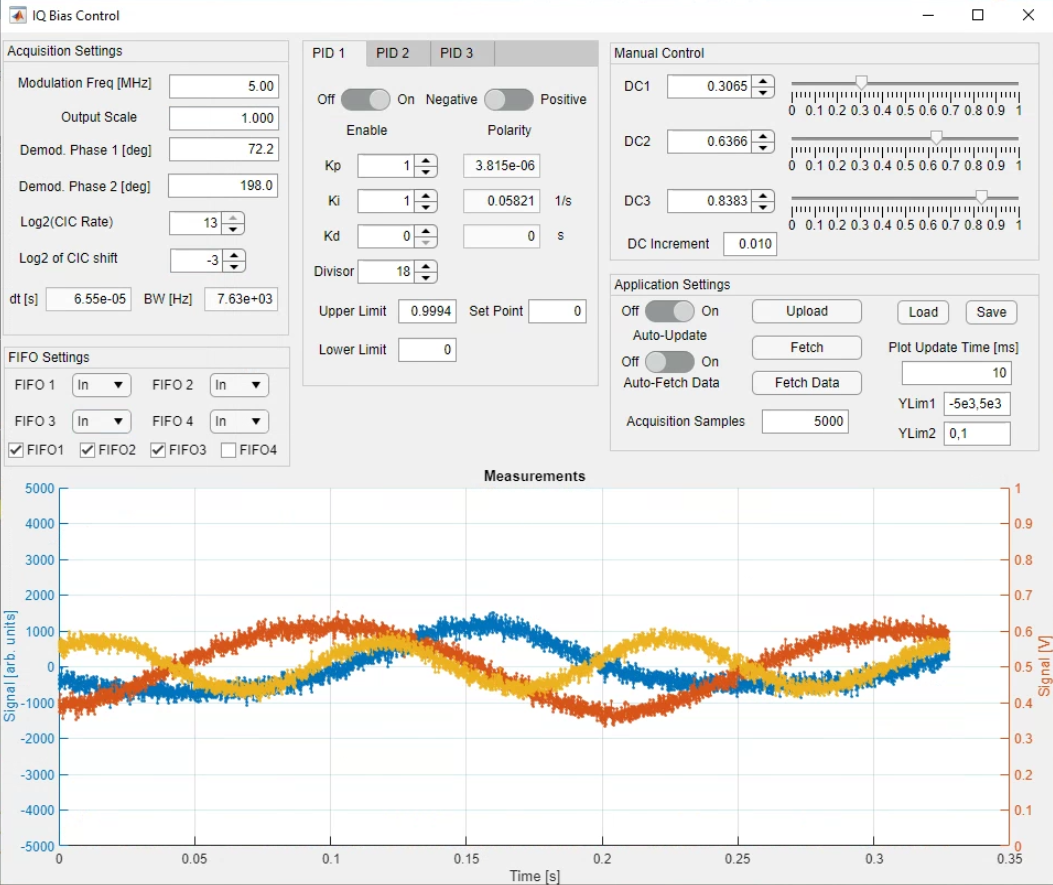
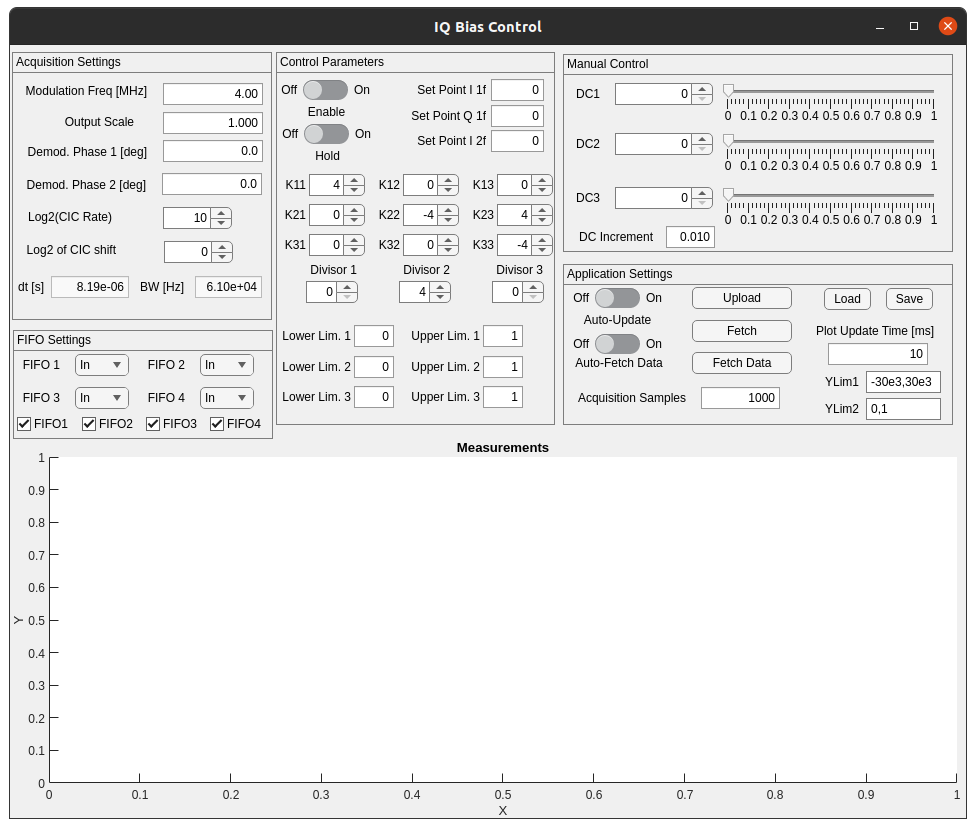
Updated README

Changed region(s): [[0.0, 0.0, 1.0, 1.0], [0.4611, 0.5133, 0.5533, 0.5435]]

diff --git a/README.md b/README.md
@@ -58,15 +58,15 @@ The GUI is best way to control the device.  There are four categories of device 
 
 The idea behind this technique is to generate a low-frequency modulation signal at a few MHz, inject it into the IQ modulator, measure the laser power using a photodetector, and then demodulate that signal at the modulation frequency in both quadratures (in-phase I and quadrature-phase Q), and also to demodulate at twice the modulation frequency (both I and Q are provided).  Demodulation is implemented digitally by multiplying the input signal with a sinusoidally varying signal at the correct frequency but with a demodulation phase (1 and 2), and the result is then filtered using a CIC filter with a rate of $2^N$.  So under acquisition settings, the "Modulation Freq" is the modulation frequency output from the RP, "Demod Phase 1" and "Demod Phase 2" are the demodulation phases at the modulation frequency and its second harmonic, "Log2(CIC Rate)" is $N$, and "Log2 of CIC shift" is an additional digital scaling factor that reduces the output signals by $2^M$ where $M$ is the setting that is given.  The time step between filtered samples, and the equivalent bandwidth, is given at the bottom of the panel.
 
-## PID 1-3
+## Control
 
-These control the three independent PID modules of the design.  The PID modules generate an actuator value that is summed with the manual control values (see next section) before having upper and lower limits applied.  PID 1 uses the I component of the 1f signal, PID 2 uses the Q component of the 1f signal, and PID 3 uses the I component of the 2f signal.  The `Enable` switch turns the controllers on, and the `Polarity` switch changes the polarity: note that the demodulation phase can affect what polarity is needed.  `Kp`, `Ki`, and `Kd` are the digital values used for the proportional, integral, and derivative gains.  After the error signals are multiplied by these gain values and then summed together, the result is divided by $2^N$ with $N$ being given by the value of `Divisor`.  This implements a simple fixed-point arithmetic.  The continuous gain equivalents are given in the right-hand column.
+Assuming that the demodulation phases are properly set, the bias voltages on the IQ modulator should independently control each demodulated signal with very limited cross-coupling.  In reality, there can be significant cross-coupling.  To account for cross-coupling, we use a multi-dimensional integral control scheme.  For a vector of voltages $\mathbf{V}$ and a vector of signals $\mathbf{S}$, we implement a control law as a 3x3 matrix $K$ such that $\mathbf{V} = -K\mathbf{S}$.  The integer values for the control matrix $K$ are given as K11, K12, etc, and these can be negative to allow for opposite polarity responses.  Additionally, to account for possibly different orders of magnitude of gain reponse, each output voltage has its own "divisor" to allow for fixed-point arithmetic.  Therefore, the output voltage $V_1$ is $V_1 = 2^{-N_1}(K_{11}S_1 + K_{12}S_2 + K_{13}S_3)$ and similarly for the other rows 2 and 3.  
 
-Upper and lower limits are specified in volts for the output of the PWM (before any amplifiers you may add), and the set point is given in the arbitrary units that the measured signals are reported in.
+Other controls are reasonably straightforward.  The `Enable` switch turns the controller on, and the `Hold` switch holds the outputs at the current values.  The different set points allow for stabilising the signals about a non-zero value, and the upper and lower limits at the bottom limit the PMW output voltages (values are prior to any amplifiers you may add).
 
 ## Manual Control
 
-The voltage biases DC1, DC2, and DC3 adjust the phases of the three MZIs in the IQ modulator and thus allow for CS-SSB as well as all sorts of other, undesired output modes.  Unfortunately, simply by measuring the optical power it is fundamentally impossible to determine what frequency is on the output of the IQ modulator, as all single-frequency operation generates a steady DC value on the photodiode.  The manual control allows the user to get close to CS-SSB operation, and then the PID controllers will ideally keep it in that mode.
+The voltage biases DC1, DC2, and DC3 adjust the phases of the three MZIs in the IQ modulator and thus allow for CS-SSB as well as all sorts of other, undesired output modes.  Unfortunately, simply by measuring the optical power it is fundamentally impossible to determine what frequency is on the output of the IQ modulator, as all single-frequency operation generates a steady DC value on the photodiode.  The manual control allows the user to get close to CS-SSB operation, and then the controller will ideally keep it in that mode.
 
 DC1, DC2, and DC3 are output voltages from 0 to 1 V that should be connected to the appropriate pins on the IQ modulator.  These values can be changed using the sliders or spinners.  If using the arrows on the spinners, the DC increment can be changed to allow for coarser or finer changes.  Note that the minimum DC increment is 1.6 mV.
 
@@ -83,6 +83,22 @@ The measurements are recorded in first-in, first-out (FIFO) buffers on chip, and
 `Auto-Fetch Data` continuously uploads parameters and fetches demodulated data and displays it on the plot.  The update time is given in `Plot Update Time` in milliseconds.  You can change the parameters as it grabs data in order to optimise the bias values.
 
 You can also save and load bias control configurations using the `Load` and `Save` buttons.
+
+# How to determine gain parameters
+
+The best way to get the right gain parameters is to measure the response of the system to a change in the bias voltage, and then to calculate the gain parameters from that.  There is a script called `automatically_set_feedback.m` in the `software/` folder which does this task.  Here is how it works.
+
+You will need a rough idea of what the right bias voltages are, first.  Set the desired modulation frequency (avoid multiples of 5 MHz!), the sample rate, and any scalings.  The first step is to measure the 2f demodulation phase.  This is done by varying the DC3 voltage and the 2f demodulation phase, and then looking at what demodulation phase gives the largest amplitude change to the 2f demodulated signal: this is the optimum demodulation phase.
+
+The next step is to do a fine scan over the DC3 bias at the optimum demodulation phase to find the biases at which the 2f signal amplitude crosses zero.  There are two voltages, and for the ixBlue IQ modulator the best voltage is the higher voltage near 0.9 V.  This gets a fine-tuned measurement.
+
+Next, we perform a scan over the DC2 bias and the 1f demodulation phase to determine the optimal phase.  Again, we look at what phase gives the maximum amplitude change to the 1f Q signal.  By definition, this minimizes cross-coupling with the 1f I signal.
+
+With the correct 1f demodulation phase, a fine scan is applied to determine the voltages at which the 1f I and Q signals cross zero.  For the ixBlue IQ modulator, the best biases are with the DC1 voltage near 0.3 V and the DC2 voltage near 0.65 V.
+
+Finally, we then do two steps of small variations about the bias voltages that we have measured to give zero signal.  We then fit the measurements to a linear response to get a transfer matrix $G$ (the slope of the lines) and new zero crossing voltages $\mathbf{Z}$.  We then re-measure the responses around these new zero-crossing voltages, which gives a final transfer matrix $G$.  
+
+The feedback matrix is then calculated by starting with a target matrix $K_t$ and computing $K = G^{-1}K_t$.  
 
 # Creating the project
 
